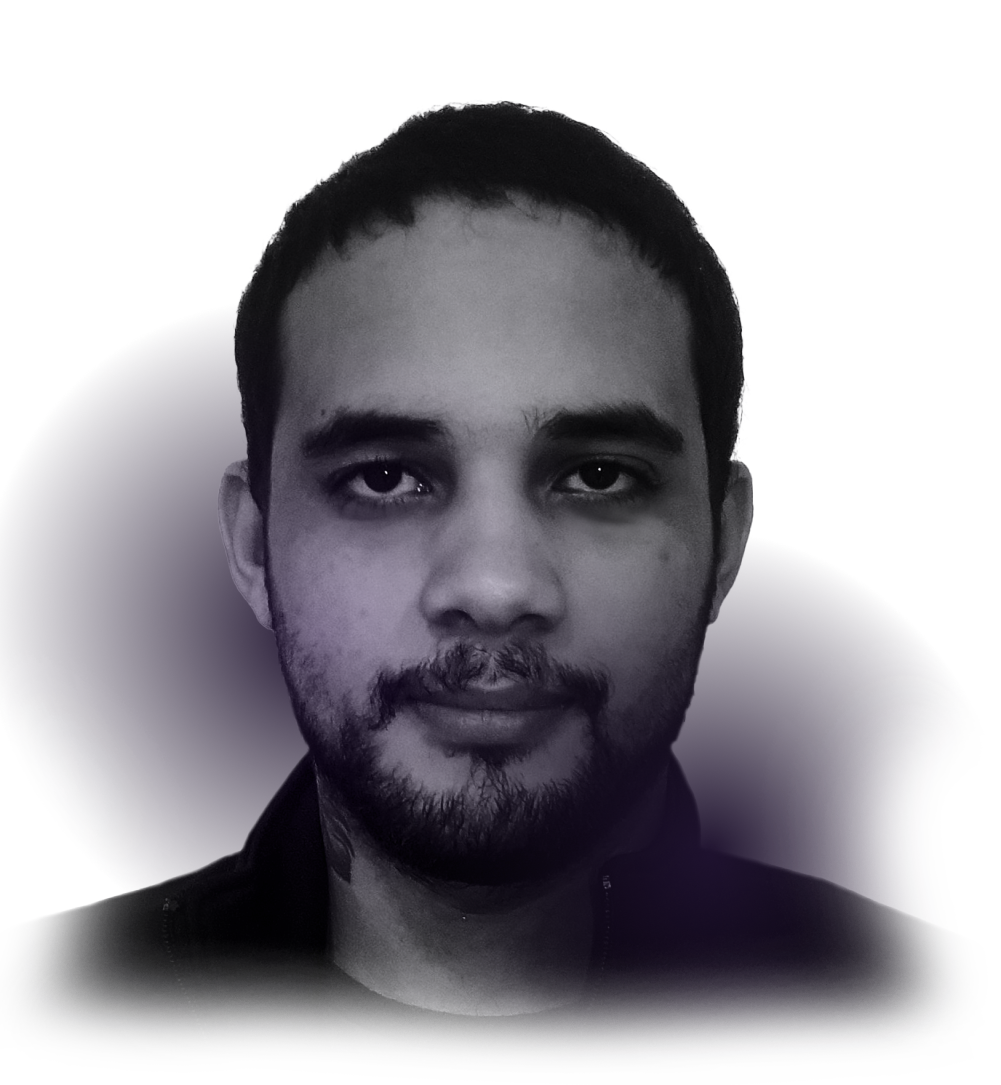
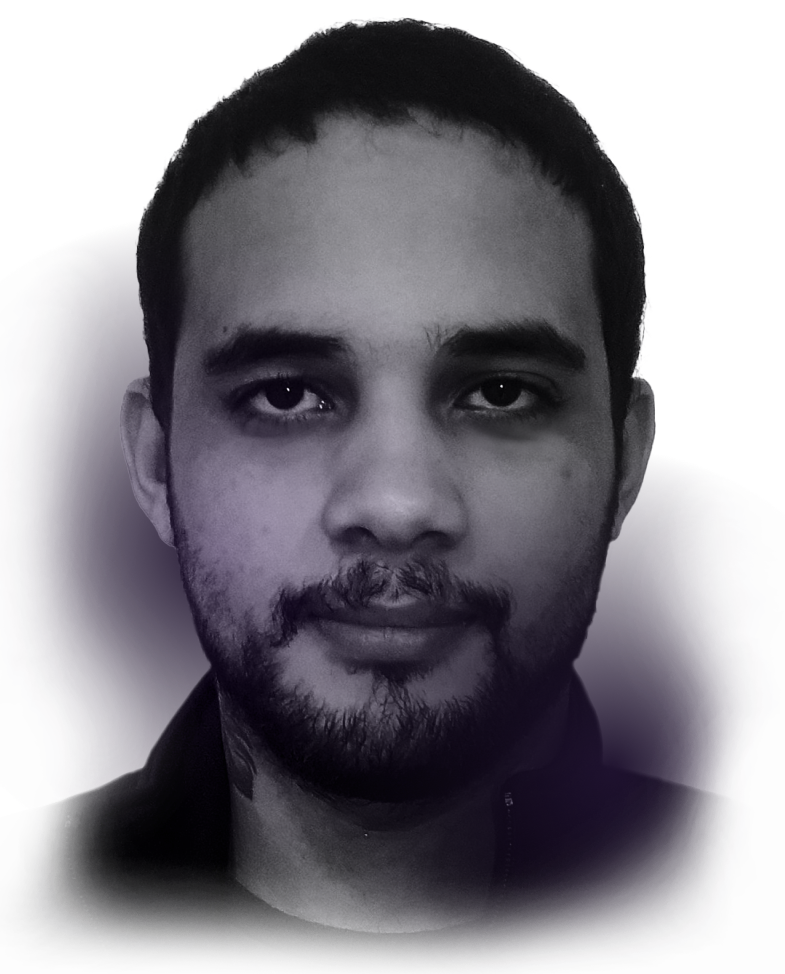
fix: hero overflow image bug

diff --git a/components/hero.tsx b/components/hero.tsx
@@ -13,7 +13,7 @@ const HeroSection = () => {
   const isTabletOrMobile = useMediaQuery({ query: "(max-width: 1224px)" });
 
   return (
-    <>
+    <section className="relative">
       {/* DETAILS MOBILE */}
       <div className="md:hidden overflow-x-hidden">
         <span className="dt opacity-15 md:opacity-20 top-[4.8rem]">
@@ -38,8 +38,8 @@ const HeroSection = () => {
       </div>
 
       {/* CONTENT */}
-      <div className="line flex max-w-[1050px] mx-auto left-0 right-0 h-screen w-full ">
-        <div className="flex items-center max-w-[1060px]">
+      <div className="flex left-0 right-0 h-screen w-full ">
+        <div className="flex items-center max-w-[1060px] mx-auto">
           {/* INFORMATION */}
           <div className="pl-[30px] z-20">
             <div>
@@ -94,7 +94,7 @@ const HeroSection = () => {
           </div>
 
           {/* IMAGE */}
-          <div className="absolute -right-[200px] md:-right-[250px] lg:-right-[270px] xl:-right-[250px] 2xl:right-[190px] -top-[150px] ">
+          <div className="absolute max-w-[500px] -right-[130px]  md:-right-[250px] lg:-right-[270px] xl:-right-[250px] 2xl:right-[190px] -top-[150px] overflow-x-hidden">
             <Image
               src="/img/hero-img-3_transp.png"
               alt="Francy Santos"
@@ -122,7 +122,7 @@ const HeroSection = () => {
           </div>
         </Link>
       </div>
-    </>
+    </section>
   );
 };
 

diff --git a/app/page.tsx b/app/page.tsx
@@ -7,17 +7,14 @@ import { Projects } from "@/components/projects";
 export default function Home() {
   return (
     <>
-      <Header />
       {/* CONTENT */}
-      <div className="w-full left-0 right-0 mx-auto">
-        <HeroSection />
-        <HardSkills />
-        <div className="section-detail">
-          <AboutSection />
-        </div>
-        <div className="section-detail-bottom">
-          <Projects />
-        </div>
+      <HeroSection />
+      <HardSkills />
+      <div className="section-detail">
+        <AboutSection />
+      </div>
+      <div className="section-detail-bottom">
+        <Projects />
       </div>
     </>
   );

diff --git a/components/header.tsx b/components/header.tsx
@@ -53,7 +53,7 @@ const Header = () => {
 
   return (
     <header
-      className={`w-full max-w-[1050px] md:mx-auto px-[30px] items-center justify-between flex ${headerBackground} from-mainBackground h-[75px] md:h-[95px] fixed top-0 z-50 left-0 right-0`}
+      className={`line w-full max-w-[1050px] md:mx-auto px-[30px] items-center justify-between flex ${headerBackground} from-mainBackground h-[75px] md:h-[95px] fixed top-0 z-50 left-0 right-0`}
     >
       <Link href={"/"} className="py-5">
         <Image

diff --git a/app/layout.tsx b/app/layout.tsx
@@ -18,6 +18,7 @@ export default function RootLayout({
   return (
     <html lang="en" className="scroll-smooth">
       <body className={(inter.className, "bg-mainBackground overflow-hidden")}>
+        <Header />
         {children}
       </body>
     </html>
